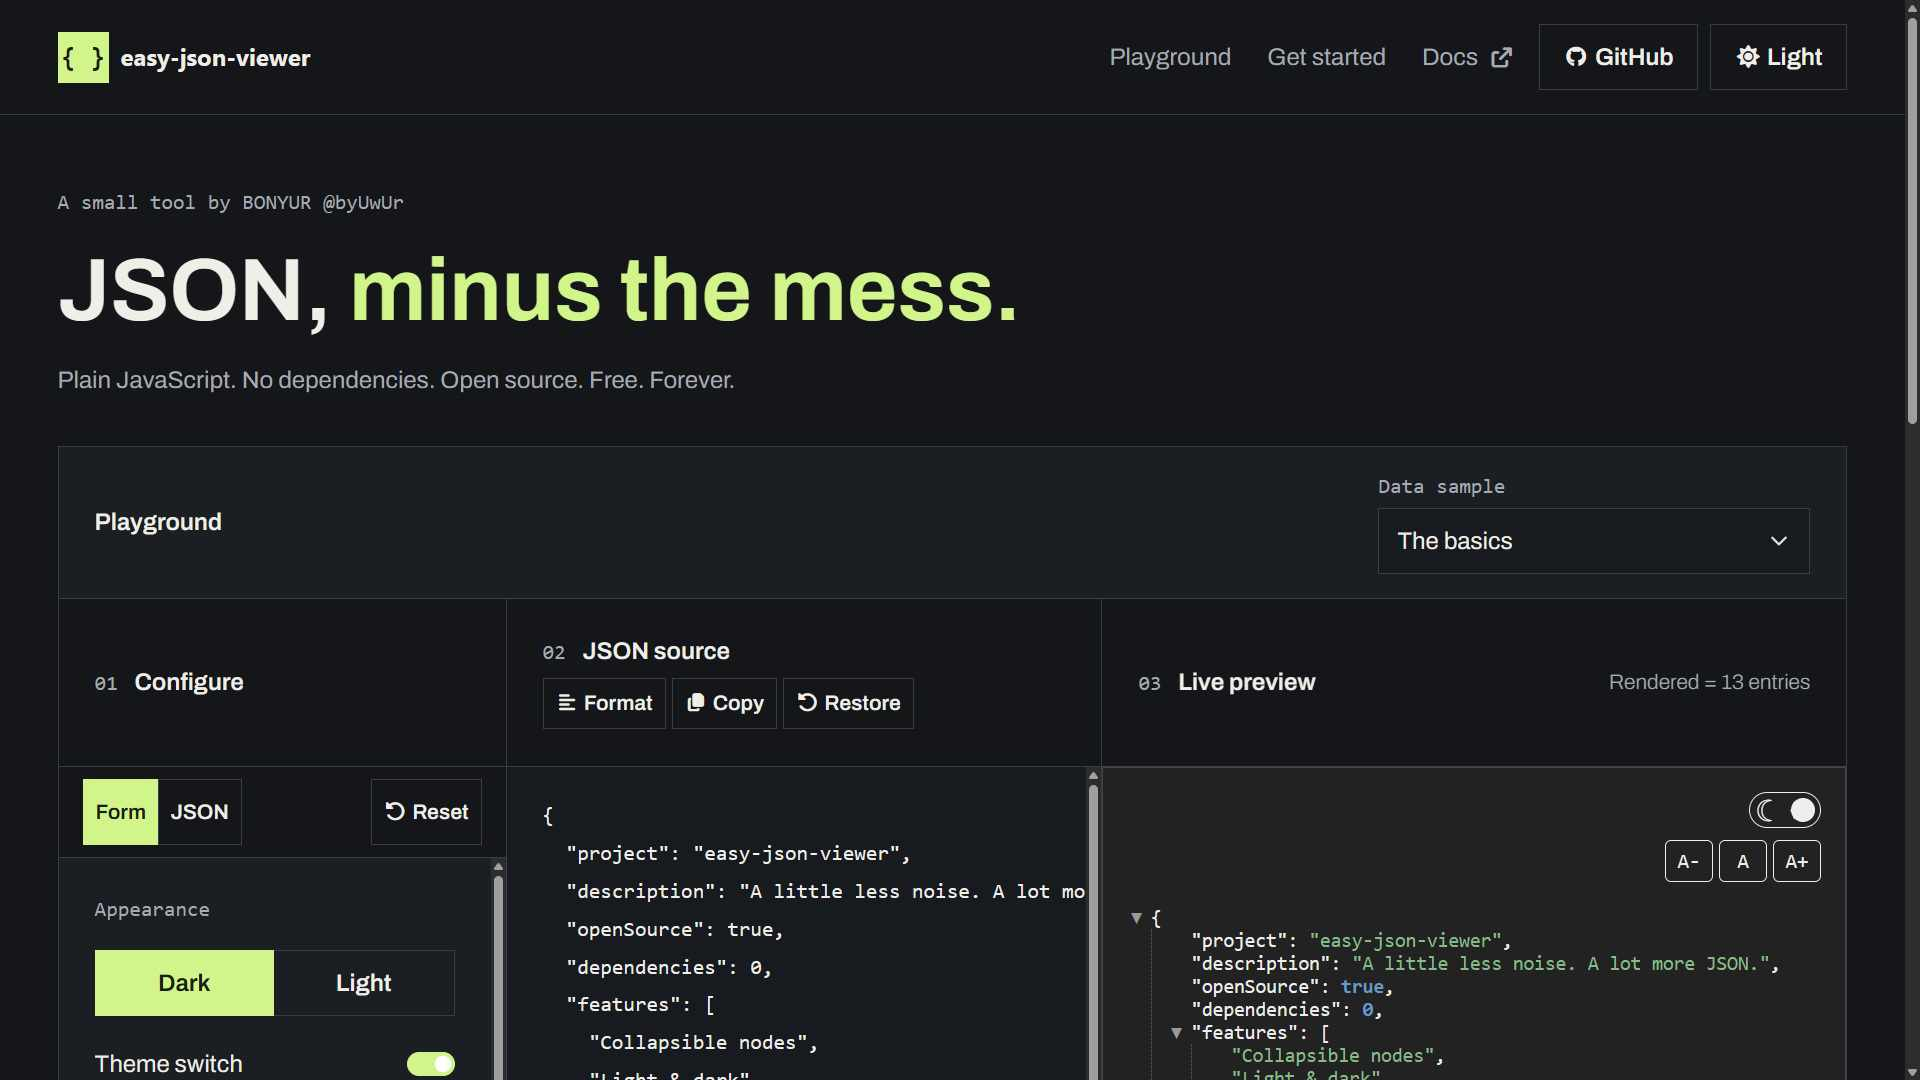
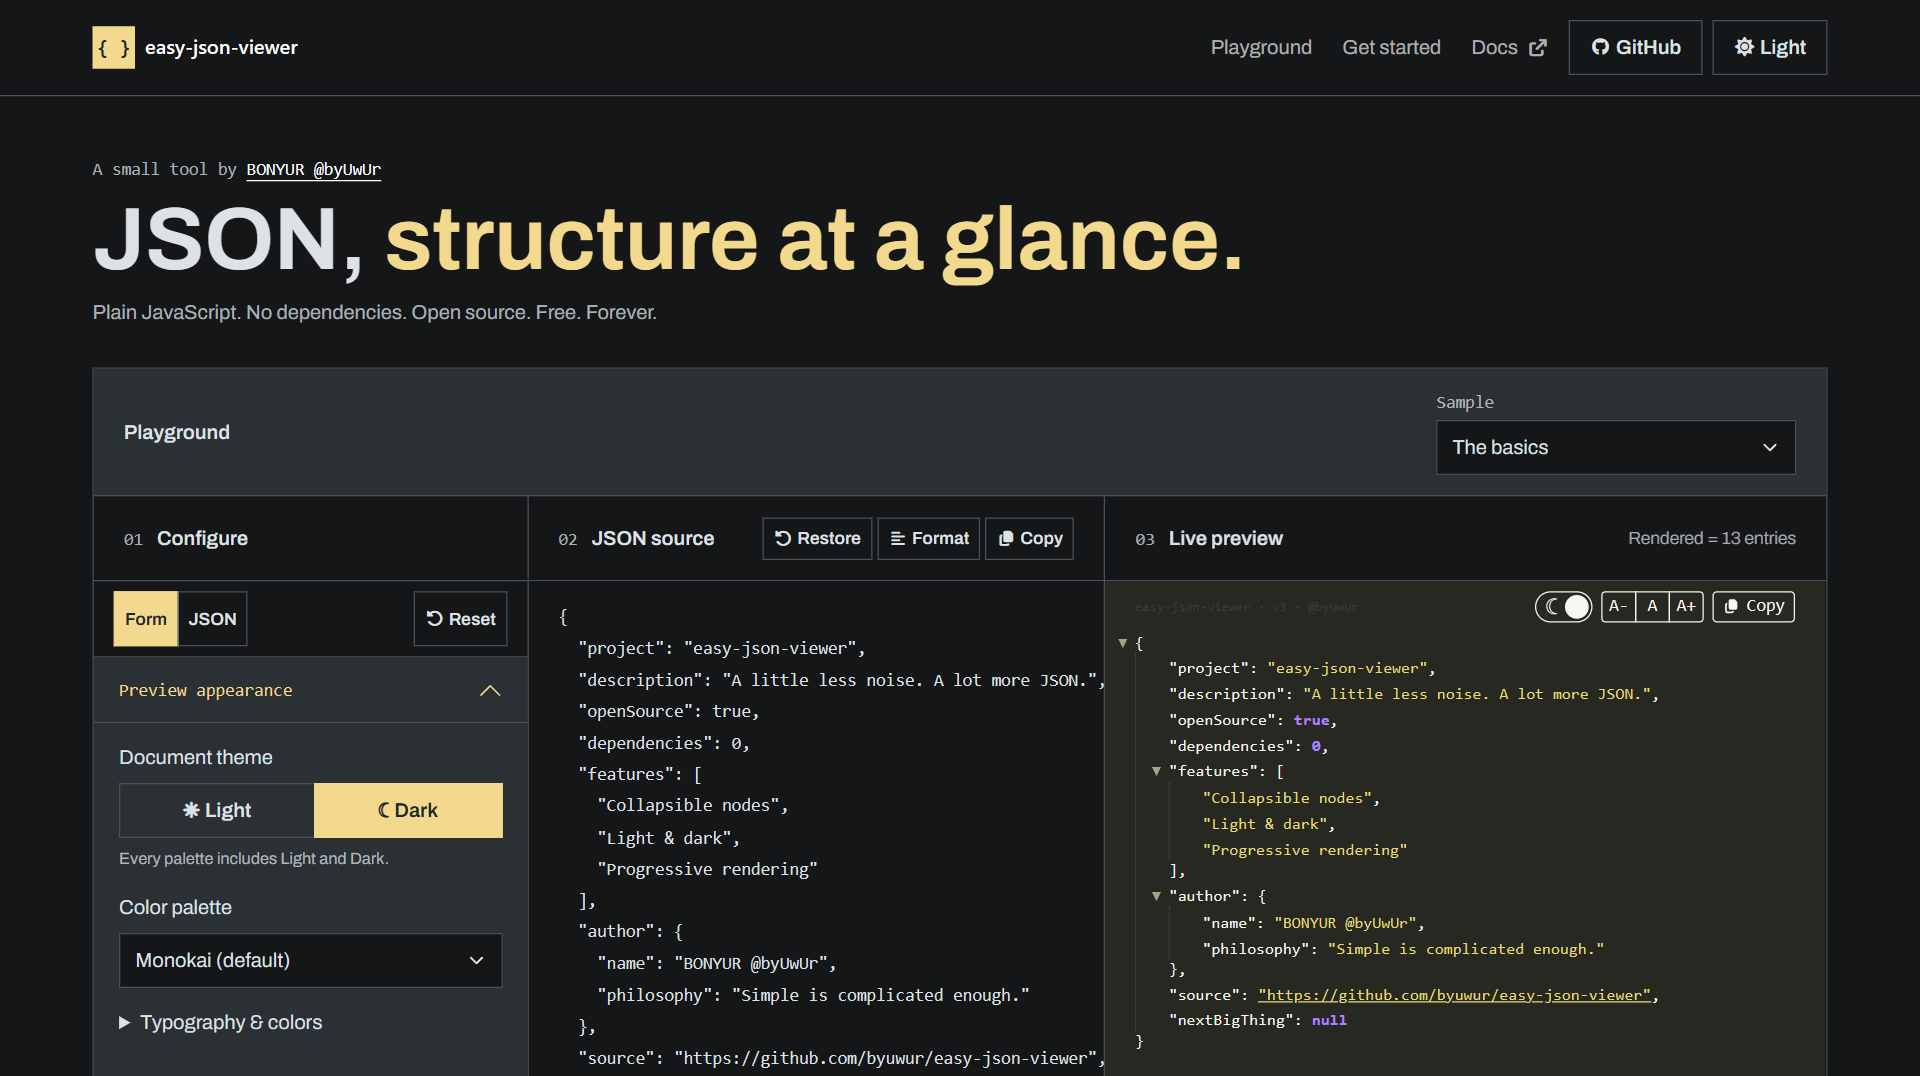
[Update] Release: label v3 and refresh the preview
Align native attribution with the current major version. Refresh the landing preview at 125% scale and keep its JPEG below 100KB.

Validation: node --test tests/rendering.cjs (40 passing at this snapshot).

diff --git a/json.js b/json.js
@@ -529,6 +529,6 @@
     appendViewerControls(element, normalizedOptions, "json", json);
   }
   global.byJSONviewer = byJSONviewer;
-  byJSONviewer.VERSION = "2.12"; // 2026-10-23
+  byJSONviewer.VERSION = "3"; // 2026-11-01
   global.byJSONviewer.initialized = true;
 })(typeof window !== "undefined" ? window : this);
